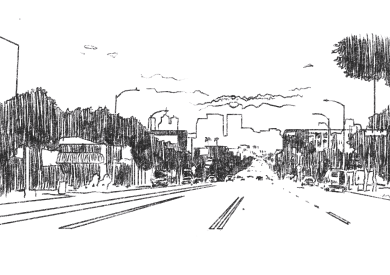
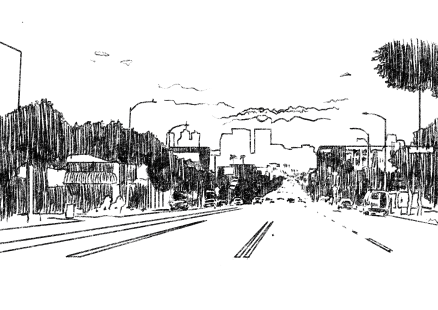
Refined Manhattan art

diff --git a/css/style.less b/css/style.less
@@ -675,14 +675,21 @@ h1, h2, h3, h4, h5 { margin: 0; }
     }
 }
 // los angeles
-.los .container:before { background-image: url('../img/bgLA.png'); }
+.los .container:before { 
+    background-image: url('../img/bgLA.png'); 
+    background-size: auto;
+}
 @media (-webkit-min-device-pixel-ratio: 2), (min-resolution: 192dpi) {
     .los .container:before {
         background-image: url('../img/bgLA@2x.png');
     }
 }
 // manhattan
-.man .container:before { background-image: url('../img/bgManhattan.png'); }
+.man .container:before { 
+    background-image: url('../img/bgManhattan.png'); 
+    background-size: auto;
+    background-position-y: 99px;
+}
 @media (-webkit-min-device-pixel-ratio: 2), (min-resolution: 192dpi) {
     .man .container:before {
         background-image: url('../img/bgManhattan@2x.png');

diff --git a/css/style.css b/css/style.css
@@ -724,6 +724,7 @@ h5 {
 }
 .los .container:before {
   background-image: url('../img/bgLA.png');
+  background-size: auto;
 }
 @media (-webkit-min-device-pixel-ratio: 2), (min-resolution: 192dpi) {
   .los .container:before {
@@ -732,6 +733,8 @@ h5 {
 }
 .man .container:before {
   background-image: url('../img/bgManhattan.png');
+  background-size: auto;
+  background-position-y: 99px;
 }
 @media (-webkit-min-device-pixel-ratio: 2), (min-resolution: 192dpi) {
   .man .container:before {
